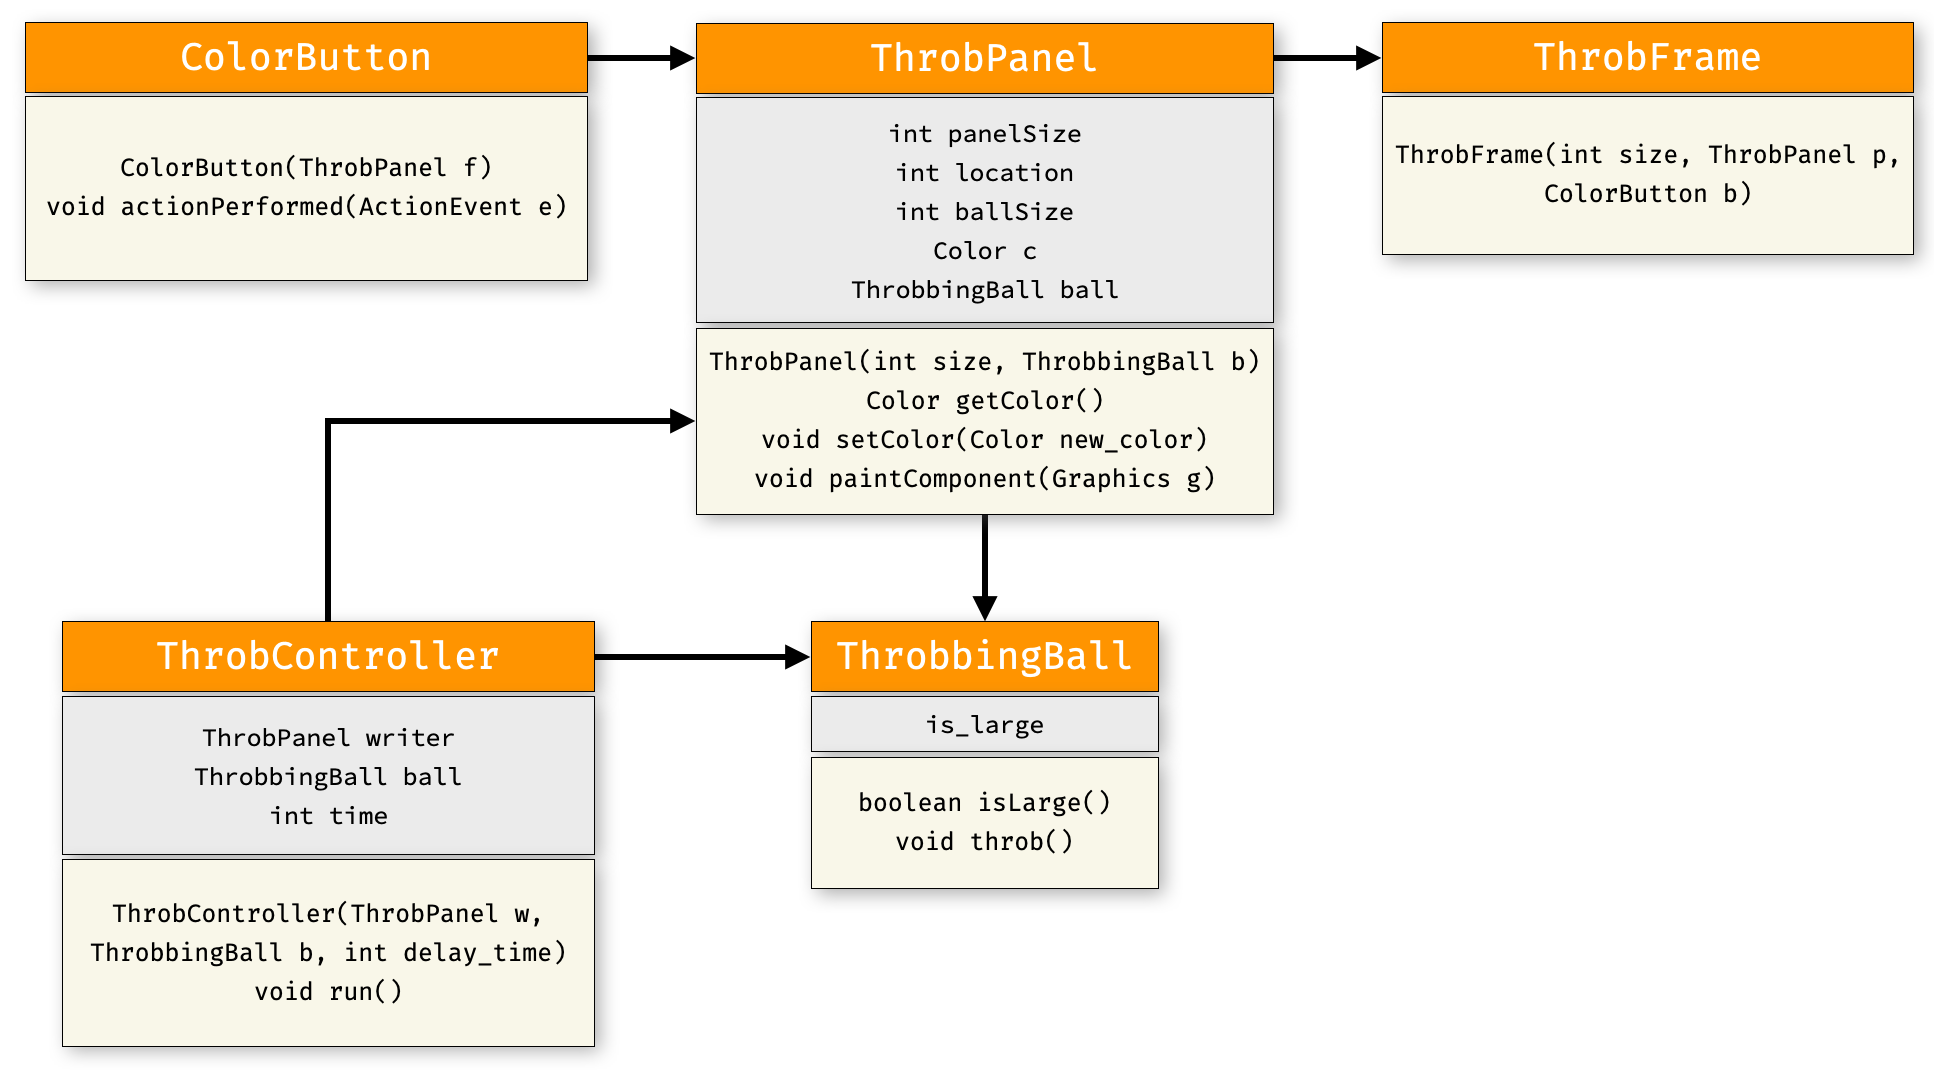
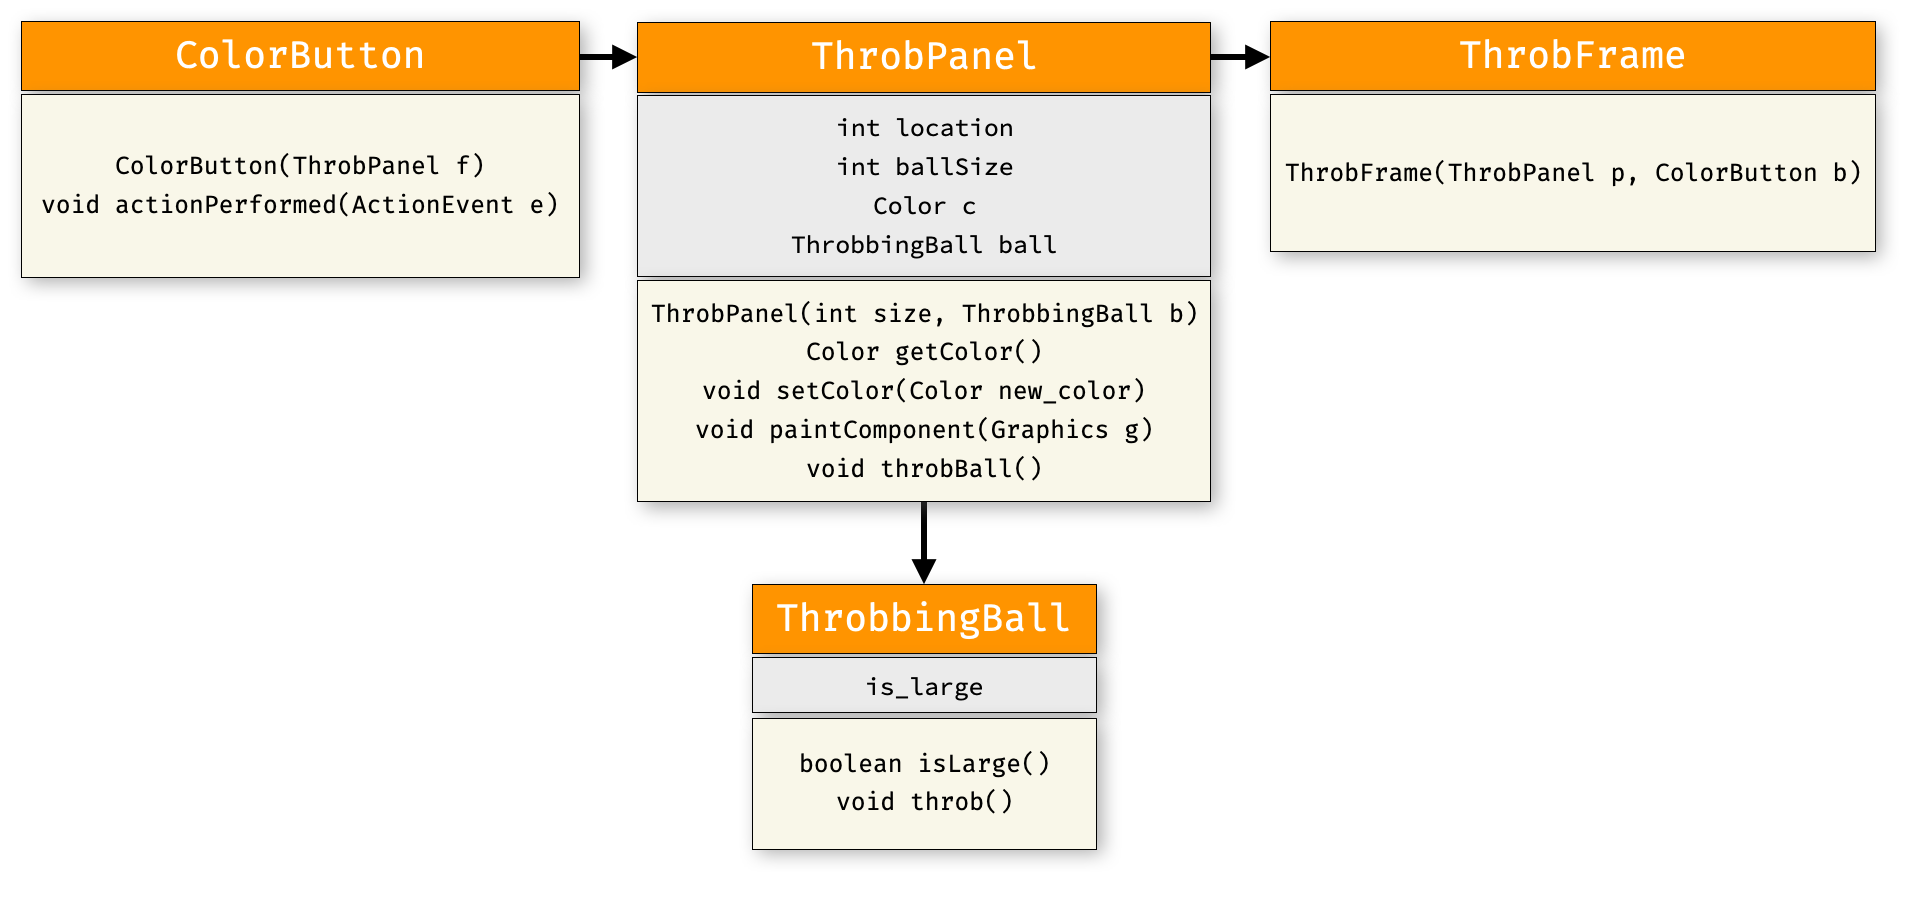
Fix Lab #09

diff --git a/COM2018/src/labs/lab09/throbbingball/asis/ThrobPanel.java b/COM2018/src/labs/lab09/throbbingball/asis/ThrobPanel.java
@@ -1,0 +1,40 @@
+package labs.lab09.throbbingball.asis;
+
+import java.awt.*;
+import javax.swing.*;
+
+public class ThrobPanel extends JPanel {
+	private int location, ball_size;
+	private Color c = Color.RED;
+	private ThrobbingBall ball;
+	
+	public ThrobPanel(ThrobbingBall b) {
+		int size = 180;
+		location = size / 2; 
+		ball_size = size / 3; 
+		ball = b;
+		setSize(size, size);
+	}
+	
+	public Color getColor() { 
+		return c; 
+	}
+	
+	public void setColor(Color new_color) { 
+		c = new_color; 
+	}	
+
+    public void throbBall() {
+        ball.throb();
+    }
+
+	public void paintComponent(Graphics g) { 
+		g.setColor(Color.WHITE);
+		g.fillRect(0, 0, 180, 180);
+		g.setColor(c); 
+		if (ball.isLarge())
+			g.fillOval(location-ball_size/2,location-ball_size/2,ball_size,ball_size); 
+		else 
+			g.fillOval(location-ball_size/4,location-ball_size/4,ball_size/2,ball_size/2); 
+	}
+}

diff --git a/COM2018/src/labs/lab09/throbbingball/asis/ColorButton.java b/COM2018/src/labs/lab09/throbbingball/asis/ColorButton.java
@@ -1,0 +1,26 @@
+package labs.lab09.throbbingball.asis;
+
+import java.awt.*;
+import java.awt.event.*;
+import javax.swing.*;
+
+public class ColorButton extends JButton implements ActionListener {
+	private ThrobPanel view;
+	
+	public ColorButton(ThrobPanel f) {
+		super("OK");
+		view = f;
+		addActionListener(this);
+	}
+
+	public void actionPerformed(ActionEvent e) {
+		Color c = view.getColor();
+		if (c == Color.RED) {
+            view.setColor(Color.BLUE);
+        } else {
+            view.setColor(Color.RED);
+        }
+        view.throbBall();
+        view.repaint();
+	}
+}

diff --git a/COM2018/src/labs/lab09/throbbingball/asis/ThrobFrame.java b/COM2018/src/labs/lab09/throbbingball/asis/ThrobFrame.java
@@ -1,0 +1,19 @@
+package labs.lab09.throbbingball.asis;
+
+import java.awt.*;
+import javax.swing.*;
+
+public class ThrobFrame extends JFrame {
+	
+	public ThrobFrame(ThrobPanel p, ColorButton b) {
+		Container cp = getContentPane();
+		cp.setLayout(new BorderLayout());
+		cp.add(p, BorderLayout.CENTER);
+		cp.add(b, BorderLayout.SOUTH);
+		setTitle("Throb");
+        int size = 180;
+		setSize(size, size+40);
+		setVisible(true);
+        setDefaultCloseOperation(JFrame.EXIT_ON_CLOSE);
+	}
+}

diff --git a/COM2018/src/labs/lab09/throbbingball/asis/StartThrob.java b/COM2018/src/labs/lab09/throbbingball/asis/StartThrob.java
@@ -1,0 +1,10 @@
+package labs.lab09.throbbingball.asis;
+
+public class StartThrob {
+
+	public static void main(String[] args) {
+		ThrobbingBall b = new ThrobbingBall();
+		ThrobPanel p = new ThrobPanel(b);
+		new ThrobFrame(p, new ColorButton(p));
+	}
+}

diff --git a/COM2018/src/labs/lab09/throbbingball/asis/ThrobbingBall.java b/COM2018/src/labs/lab09/throbbingball/asis/ThrobbingBall.java
@@ -1,0 +1,13 @@
+package labs.lab09.throbbingball.asis;
+
+public class ThrobbingBall {
+	private boolean is_large = true;
+	
+	public boolean isLarge() {
+		return is_large;
+	}
+	
+	public void throb() {
+		is_large = ! is_large;
+	}
+}

diff --git a/COM2018/labs/09/lab09.md b/COM2018/labs/09/lab09.md
@@ -5,20 +5,26 @@
 
 - 이번 주에 배운 `ActionListener`를 사용해서 크기와 색이 변하는 공을 그려봅시다.
 
-주기적으로 공의 크기를 바꾸고, 버튼을 누르면 색상이 바뀌는 공을 그리세요.
-프로그램을 시작하면 주기적으로 공의 크기가 작아졌다 커졌다를 반복합니다.
-공은 처음에 빨간색이었다가 OK 버튼을 누를 때마다 파란색과 빨간색으로 바뀌어야 합니다.
+아래와 같이 버튼을 누를 때마다 공의 크기와 색상을 바꾸는 프로그램을 만드려 합니다. 
 
 <img src="img/lab01.png" width="750">
 
-전체 코드의 클래스 다이어그램은 아래와 같습니다. `ColorButton`은 오늘 배운 `ActionListener`를
-상속받아 사용자가 버튼을 누르는 이벤트에 맞춰 동작합니다.
+아래는 코드의 클래스 다이어그램입니다. 
 
 <img src="img/lab01_cd.png" width="750">
 
-- `ColorButton` : `actionPerformed(ActionEvent e)` - 이벤트가 발생할 때마다 공의 색상을 바꿉니다.
-- `ThrobbingBall` : `throb()` - 공을 크기가 큰지 여부(`is_large`)를 변경합니다.
-- `ThrobController` : `run()` - 무조건 반복문으로 `ball`의 크기 여부를 변경하고, `ThrobPanel`을 다시 그린 후(`writer.repaint()`), 정해진 시간만큼 쉽니다(`Thread.sleep(time)`).
+제공한 코드는 아래 그림에서 **AS-IS** 와 같이 공의 색상과 크기가 동시에 바뀝니다.
+이를 **TO-BE** 와 같이 바뀌도록 코드를 수정해보세요.
+
+<img src="img/lab01_changes.png" width="750">
+
+아래 내용을 참고하세요.
+
+- `ColorButton`은 오늘 배운 `ActionListener`를 상속받아 사용자가 버튼을 누르는 이벤트에 맞춰 동작합니다.
+- `ColorButton`의 `actionPerformed(ActionEvent e)`는 이벤트가 발생할 때마다 공의 색상과 크기를 바꿉니다.
+- `ThrobbingBall`의 `throb()`는 공을 크기가 큰지 여부(`isLarge`)를 변경합니다.
+- **[중요]** `ThrobPanel` 의 `paintComponent` 는 `Panel` 을 어떻게 그릴지 구현하는 코드입니다.
+- **[중요]** `JPanel` 을 (창크기 조절, 위치이동 등의 외부 요인 없이) 강제로 다시 그리도록 하려면 `repaint` 메소드를 호출하면 됩니다. 
 
 ### 실습2 : 퍼즐 게임 (GUI 버전)
 

diff --git a/COM2018/labs/09/lab09e.md b/COM2018/labs/09/lab09e.md
@@ -5,20 +5,27 @@
 
 - Using the `ActionListener` covered this week, draw a ball that changes size and color.
 
-Draw a ball that periodically changes size, and changes color when a button is pressed.
-When the program starts, the ball repeatedly shrinks and grows at regular intervals.
-The ball starts red, and each time the **OK** button is pressed, it should toggle between blue and red.
+Create a program that changes the ball’s size and color each time the button is pressed, as shown below.
 
 <img src="img/lab01e.png" width="750">
 
-The class diagram for the whole program is shown below.
-`ColorButton` implements `ActionListener` and reacts to the user's button-press events.
+The class diagram for the program is shown below.
 
 <img src="img/lab01_cd.png" width="750">
 
-- `ColorButton` : `actionPerformed(ActionEvent e)` - Changes the ball’s color whenever an event occurs.
-- `ThrobbingBall` : `throb()` - Toggles whether the ball is at its large size (`isLarge`).
-- `ThrobController` : `run()` -  In an infinite loop, toggles the ball’s size state, repaints the ThrobPanel (`writer.repaint()`), then sleeps for the specified time (`Thread.sleep(time)`).
+In the provided code, as shown in **AS-IS**, the ball’s color and size change simultaneously.
+Modify the code so that it behaves as in **TO-BE**, where the color and size change in sequence.
+
+<img src="img/lab01_changes.png" width="750">
+
+Implementation Guidelines
+
+Implement `ColorButton` by inheriting the `ActionListener` interface.
+- It should respond to the user's button-press events.
+- In `ColorButton`, implement the `actionPerformed(ActionEvent e)` method so that it changes the ball’s color and size whenever an event occurs.
+- In `ThrobbingBall`, the `throb()` method should toggle whether the ball is large (`isLarge`).
+- **[Important]** The `paintComponent` method in `ThrobPanel` defines how the panel is drawn.
+- **[Important]** To force a `JPanel` to redraw itself (without resizing or moving the window), use the `repaint()` method.
 
 ### Lab 2 : Slide Puzzle (GUI Version)
 
